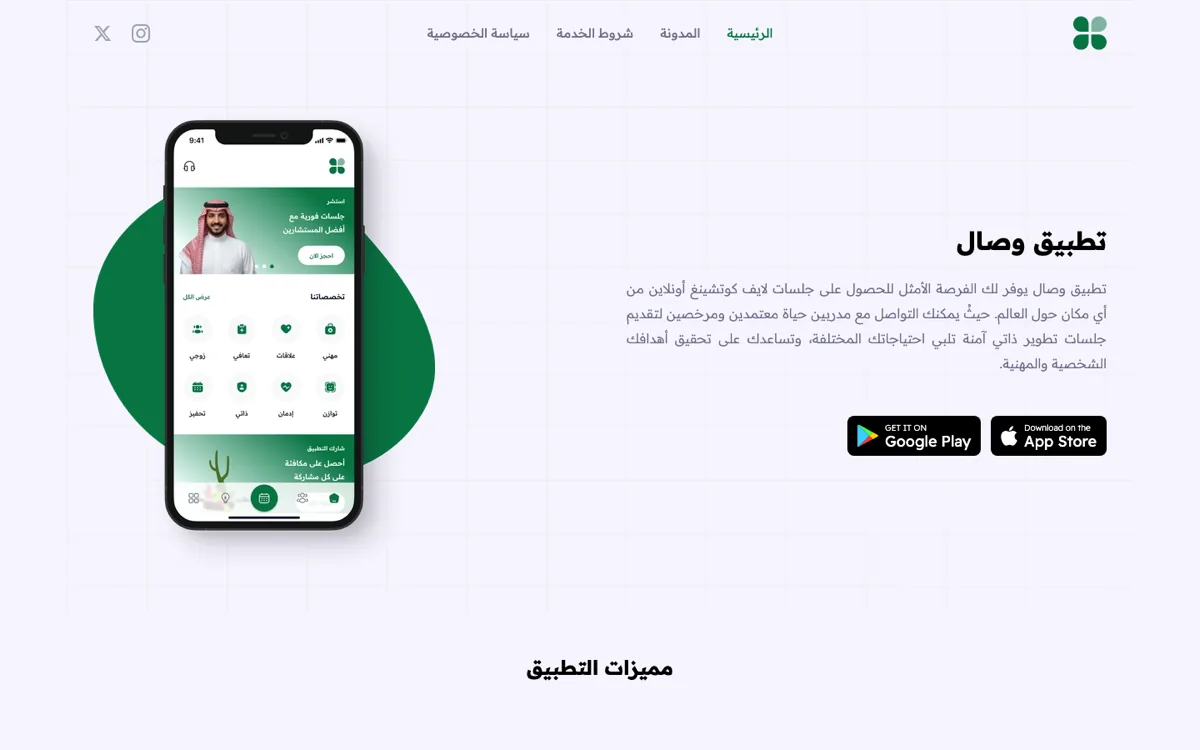
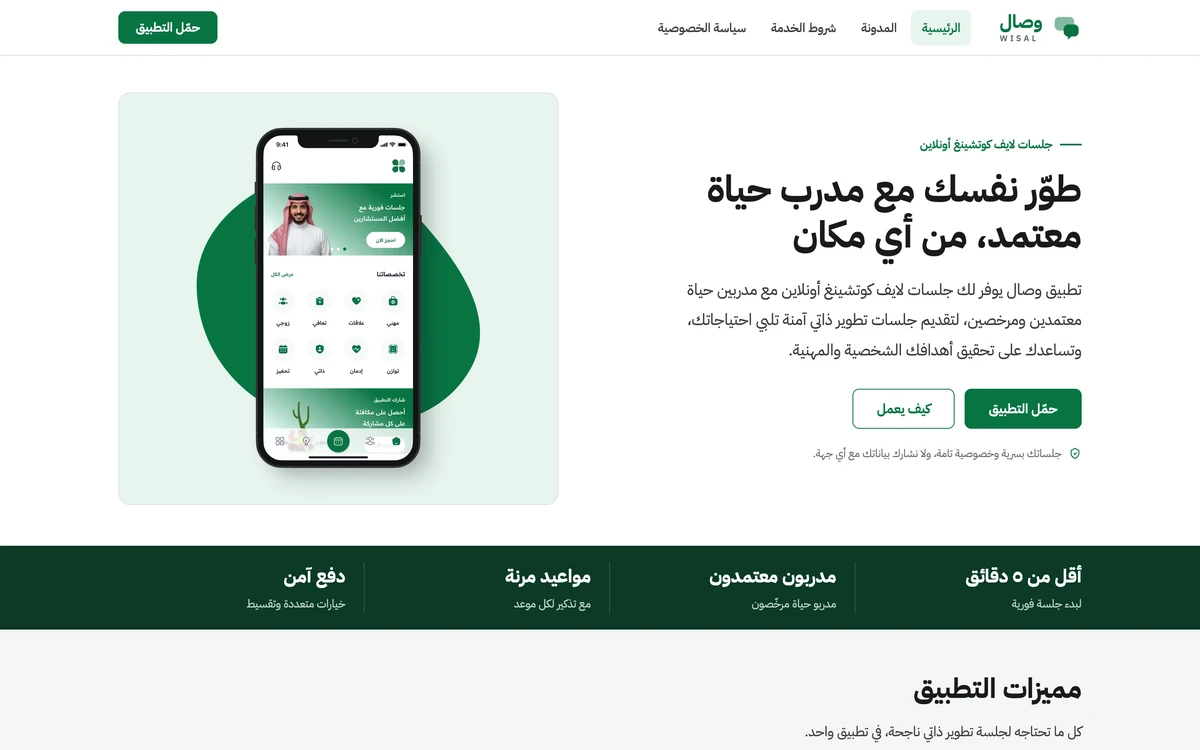
وصال: لقطة حقيقية من موقعه الحالي wisal.somow.sa وتحديث رابطه

diff --git a/lib/data.ts b/lib/data.ts
@@ -278,7 +278,7 @@ export const projects: Project[] = [
     links: [
       { label: appStore, href: "https://apps.apple.com/app/id6755353238" },
       { label: googlePlay, href: "https://play.google.com/store/apps/details?id=io.somow.wisalapp" },
-      { label: website, href: "https://wisalapp.com" },
+      { label: website, href: "https://wisal.somow.sa" },
     ],
     shots: ["/apps/wisal-1.webp", "/apps/wisal-2.webp", "/apps/wisal-3.webp"],
     cover: "/apps/wisal-web.webp",
@@ -510,13 +510,13 @@ export const catalog: WorkGroup[] = [
     },
     items: [
       { name: "Abber", nameAr: "عبر", kind: { en: "Dream interpretation · app, admin, blog, backend, site", ar: "تفسير الأحلام · تطبيق ولوحة ومدوّنة وخلفية وموقع" }, about: { en: "Marketplace where a user submits a dream and a vetted interpreter answers by text, voice or video. The Flutter app covers orders, chat, Agora calls, live sessions, stories, a store and a wallet, on a Django, Channels and Celery backend.", ar: "سوق لتفسير الأحلام والرؤى يُرسل فيه المستخدم حلمه إلى معبّر موثّق فيجيبه نصاً أو صوتاً أو بالفيديو. يضمّ تطبيق Flutter الطلبات والمحادثة ومكالمات Agora والبثّ المباشر والقصص والمتجر والمحفظة، على خلفية Django مع Channels و Celery." }, stack: ["Flutter", "Django", "WebRTC"], year: "2022 — Now", href: "https://abber.co", shots: ["/apps/abber-1.webp", "/apps/abber-2.webp", "/apps/abber-3.webp"], icon: "/apps/abber-icon.webp" },
-      { name: "Wisal", nameAr: "وصال", kind: { en: "Consultations with VoIP, wallet and double-entry ledger", ar: "استشارات بمكالمات ومحفظة وقيد مزدوج" }, about: { en: "Consultation marketplace linking clients to verified vendors by specialty. Orders run over chat and Agora calls and settle through a wallet. Flutter with BLoC on a Django backend that posts money movements to a double-entry ledger.", ar: "سوق استشارات يربط العملاء بمزوّدين موثّقين بحسب التخصّص. تُنفَّذ الطلبات عبر المحادثة ومكالمات Agora الصوتية وتُسوّى بالمحفظة. تطبيق Flutter مبنيّ بـ BLoC على خلفية Django تسجّل كل حركة مالية قيداً محاسبياً بنظام القيد المزدوج." }, stack: ["Flutter", "Django", "Agora"], year: "2023 — Now", href: "https://wisalapp.com", shots: ["/apps/wisal-1.webp", "/apps/wisal-2.webp", "/apps/wisal-3.webp"], icon: "/apps/wisal-icon.webp" },
+      { name: "Wisal", nameAr: "وصال", kind: { en: "Consultations with VoIP, wallet and double-entry ledger", ar: "استشارات بمكالمات ومحفظة وقيد مزدوج" }, about: { en: "Consultation marketplace linking clients to verified vendors by specialty. Orders run over chat and Agora calls and settle through a wallet. Flutter with BLoC on a Django backend that posts money movements to a double-entry ledger.", ar: "سوق استشارات يربط العملاء بمزوّدين موثّقين بحسب التخصّص. تُنفَّذ الطلبات عبر المحادثة ومكالمات Agora الصوتية وتُسوّى بالمحفظة. تطبيق Flutter مبنيّ بـ BLoC على خلفية Django تسجّل كل حركة مالية قيداً محاسبياً بنظام القيد المزدوج." }, stack: ["Flutter", "Django", "Agora"], year: "2023 — Now", href: "https://wisal.somow.sa", shots: ["/apps/wisal-1.webp", "/apps/wisal-2.webp", "/apps/wisal-3.webp"], icon: "/apps/wisal-icon.webp" },
       { name: "Manam", nameAr: "منام", kind: { en: "A vertical of Abber on the same backend", ar: "امتداد رأسي لعبر على الخلفية نفسها" }, about: { en: "Dream interpretation app built as a vertical of Abber. Its own Flutter codebase and Arabic-only design carry the same orders, chat, calls, live sessions and wallet. An app header lets the shared Django backend tell the two clients apart.", ar: "تطبيق لتفسير الأحلام مبنيّ امتداداً رأسياً لعبر. شيفرة Flutter مستقلّة بتصميمها الخاص وواجهة عربية فقط، تحمل الخصائص نفسها: الطلبات والمحادثة والمكالمات والبثّ والمحفظة. يرسل ترويسة باسم التطبيق لتميّزه خلفية Django المشتركة عن عبر." }, stack: ["Flutter"], year: "2026", shots: ["/work/manam-1.webp", "/work/manam-2.webp", "/work/manam-3.webp"], icon: "/work/manam-icon.webp" },
       { name: "Abber Web", nameAr: "موقع عبر", kind: { en: "The marketplace's public website", ar: "الموقع العام للمنصّة" }, about: { en: "Public website of the dream interpretation marketplace. Visitors browse interpreters, order and pay, chat, manage a wallet and read the blog. Server-rendered Nuxt frontend on the Django API the mobile apps use, hosted beside it.", ar: "الموقع العام لسوق تفسير الأحلام. يتصفّح الزائر المعبّرين ويُنشئ طلبه ويدفع ويحادث المعبّر ويدير محفظته ويقرأ المدوّنة. واجهة Nuxt تُعرَض من الخادم وتستهلك واجهة Django نفسها التي تخدم تطبيقات الجوّال، وتُستضاف بجوارها." }, stack: ["Web"], year: "2022 — Now", href: "https://abber.co", cover: "/apps/abber-web.webp", icon: "/apps/abber-icon.webp" },
       { name: "Abber Admin", nameAr: "إدارة عبر", kind: { en: "Admin app for the Abber team", ar: "تطبيق الإدارة لفريق عبر" }, about: { en: "Internal phone app the Abber team runs the marketplace with. It handles orders, users, interpreter wallets, support, WhatsApp chats, stories and statistics, plus accounting screens such as journals and trial balance. Flutter and BLoC.", ar: "تطبيق جوّال داخلي يدير به فريق عبر تشغيل السوق. يتابع الطلبات والمستخدمين ومحافظ المعبّرين وتذاكر الدعم ومحادثات WhatsApp والقصص والإحصاءات، وفيه شاشات محاسبية مثل قيود اليومية وميزان المراجعة. مبنيّ بـ Flutter و BLoC." }, stack: ["Flutter"], year: "2025", icon: "/work/abber-admin-icon.webp", shots: ["/work/abber-admin-2.webp", "/work/abber-admin-1.webp", "/work/abber-admin-3.webp"] },
       { name: "Abber Blog", nameAr: "مدوّنة عبر", kind: { en: "Standalone app for reading the Abber blog", ar: "تطبيق مستقل لقراءة مقالات مدوّنة عبر" }, about: { en: "Standalone Arabic reader for the Abber blog. It lists posts by category with search, renders HTML articles with a progress bar and saves them in Hive for offline reading. Reminders run locally; a backend flag can switch the app off.", ar: "قارئ مستقلّ لمقالات مدوّنة عبر بالعربية. يعرض المقالات بحسب التصنيف مع البحث، ويقدّم المقال بصيغة HTML مع شريط لتقدّم القراءة، ويحفظ المقالات في Hive لقراءتها دون اتصال. التذكيرات تُجدوَل محلياً، ويمكن إيقاف التطبيق بمفتاح من الخلفية." }, stack: ["Flutter"], year: "2026", icon: "/work/abber-blog-icon.webp", shots: ["/work/abber-blog-2.webp", "/work/abber-blog-1.webp", "/work/abber-blog-3.webp"] },
       { name: "Abber Watch", nameAr: "عبر للساعة", kind: { en: "Apple Watch companion for interpreters: requests, availability and wallet", ar: "رفيق المعبّر على Apple Watch: الطلبات والتوفّر والمحفظة" }, about: { en: "Apple Watch companion for Abber interpreters. SwiftUI pages show availability, wallet, orders to accept or reject, notifications and settings. Data comes from the phone app over WatchConnectivity and a Flutter channel. Not released yet.", ar: "رفيق المعبّر في عبر على Apple Watch. صفحاته بـ SwiftUI تعرض حالة التوفّر والمحفظة، والطلبات المعلّقة لقبولها أو رفضها، والإشعارات والإعدادات. تصله البيانات من تطبيق الهاتف عبر WatchConnectivity وقناة Flutter، ولم يُنشر بعد." }, stack: ["Swift", "watchOS"], year: "2025", icon: "/apps/abber-icon.webp", shots: ["/work/abber-watch-2.webp", "/work/abber-watch-1.webp", "/work/abber-watch-3.webp"], device: "watch" },
-      { name: "Wisal Web", nameAr: "موقع وصال", kind: { en: "The product's public website", ar: "الموقع العام للمنتج" }, about: { en: "Marketing site for the Wisal consultation app, with a blog, legal pages and a download link routing each device to its store. Qwik City builds it fully static; a plain JavaScript page lets a guest join a call over WebSocket and Agora.", ar: "الموقع التسويقي لتطبيق الاستشارات وصال، وفيه مدوّنة وصفحات قانونية ورابط تحميل يوجّه كل جهاز إلى متجره. يبنيه Qwik City موقعاً ثابتاً بالكامل، ومعه صفحة JavaScript مستقلّة ينضمّ منها الضيف إلى المكالمة عبر WebSocket و Agora." }, stack: ["Web"], year: "2025 — Now", href: "https://wisalapp.com", cover: "/apps/wisal-web.webp", icon: "/apps/wisal-icon.webp" },
+      { name: "Wisal Web", nameAr: "موقع وصال", kind: { en: "The product's public website", ar: "الموقع العام للمنتج" }, about: { en: "Marketing site for the Wisal consultation app, with a blog, legal pages and a download link routing each device to its store. Qwik City builds it fully static; a plain JavaScript page lets a guest join a call over WebSocket and Agora.", ar: "الموقع التسويقي لتطبيق الاستشارات وصال، وفيه مدوّنة وصفحات قانونية ورابط تحميل يوجّه كل جهاز إلى متجره. يبنيه Qwik City موقعاً ثابتاً بالكامل، ومعه صفحة JavaScript مستقلّة ينضمّ منها الضيف إلى المكالمة عبر WebSocket و Agora." }, stack: ["Web"], year: "2025 — Now", href: "https://wisal.somow.sa", cover: "/apps/wisal-web.webp", icon: "/apps/wisal-icon.webp" },
       { name: "Wisal Admin", nameAr: "إدارة وصال", kind: { en: "Admin app for the Wisal team", ar: "تطبيق الإدارة لفريق وصال" }, about: { en: "Phone app for the team operating Wisal. Staff review orders, vendors, users, wallets, invoices and support chats, and work on the ledger: chart of accounts, journals, fiscal periods, reconciliation, trial balance. Flutter, BLoC and Hive.", ar: "تطبيق جوّال للفريق الذي يشغّل وصال. يراجع الموظفون الطلبات والمزوّدين والمستخدمين والمحافظ والفواتير ومحادثات الدعم، ويعملون على الدفاتر: دليل الحسابات وقيود اليومية والفترات المالية والتسوية وميزان المراجعة. Flutter مع BLoC و Hive." }, stack: ["Flutter"], year: "2026", icon: "/work/wisal-admin-icon.webp", shots: ["/work/wisal-admin-2.webp", "/work/wisal-admin-1.webp", "/work/wisal-admin-3.webp"] },
     ],
   },
@@ -730,7 +730,7 @@ export const storeApps = [
   {
     name: "Wisal",
     category: "BusinessApplication",
-    url: "https://wisalapp.com",
+    url: "https://wisal.somow.sa",
     stores: [
       "https://apps.apple.com/app/id6755353238",
       "https://play.google.com/store/apps/details?id=io.somow.wisalapp",
